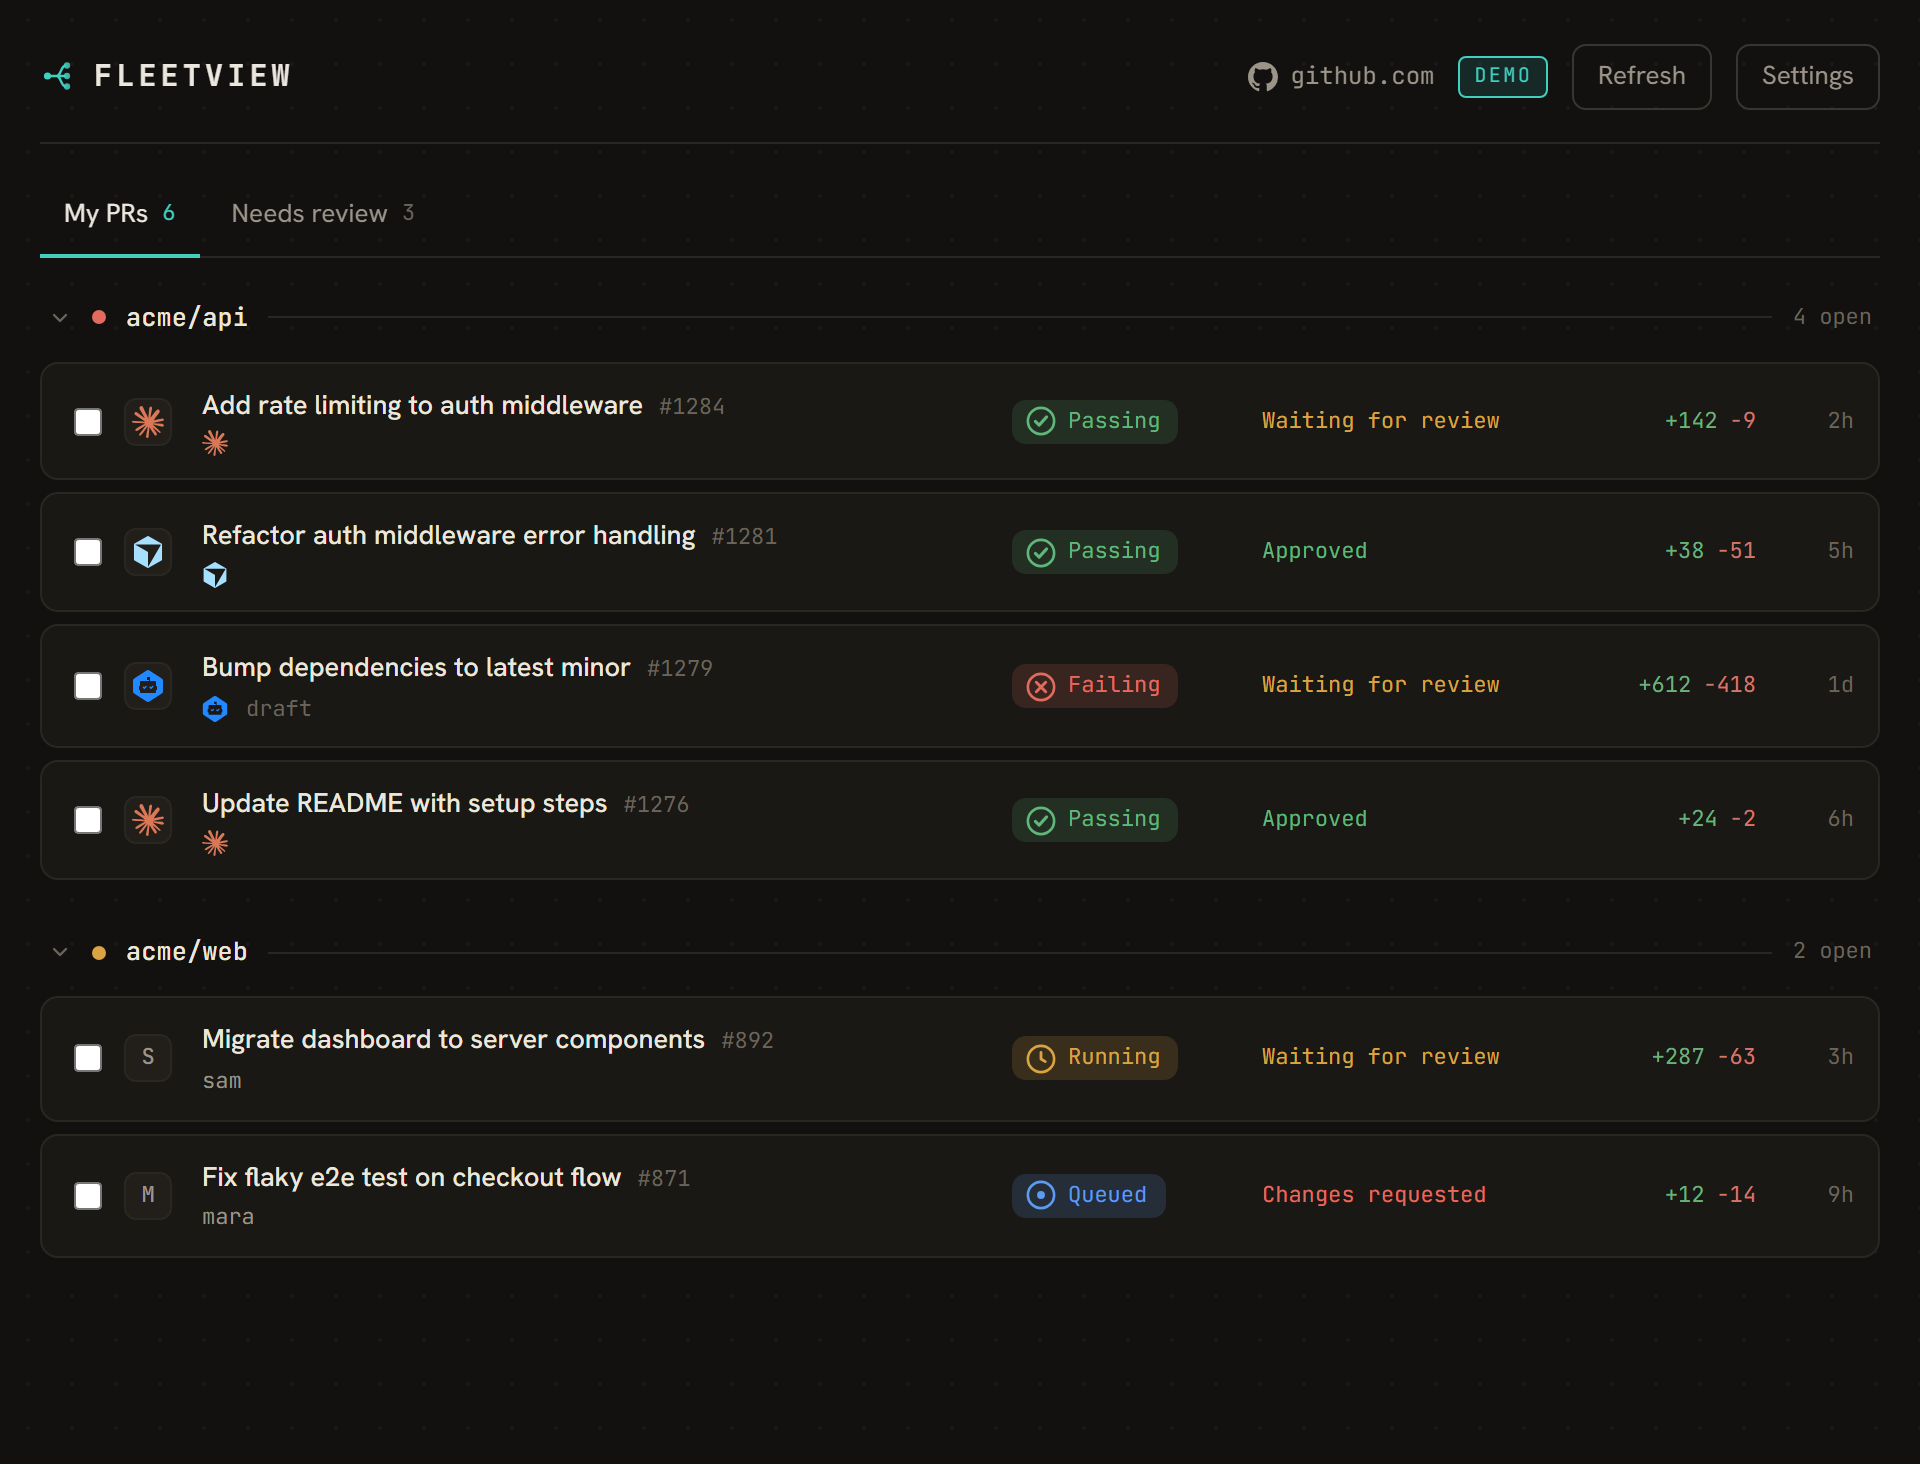
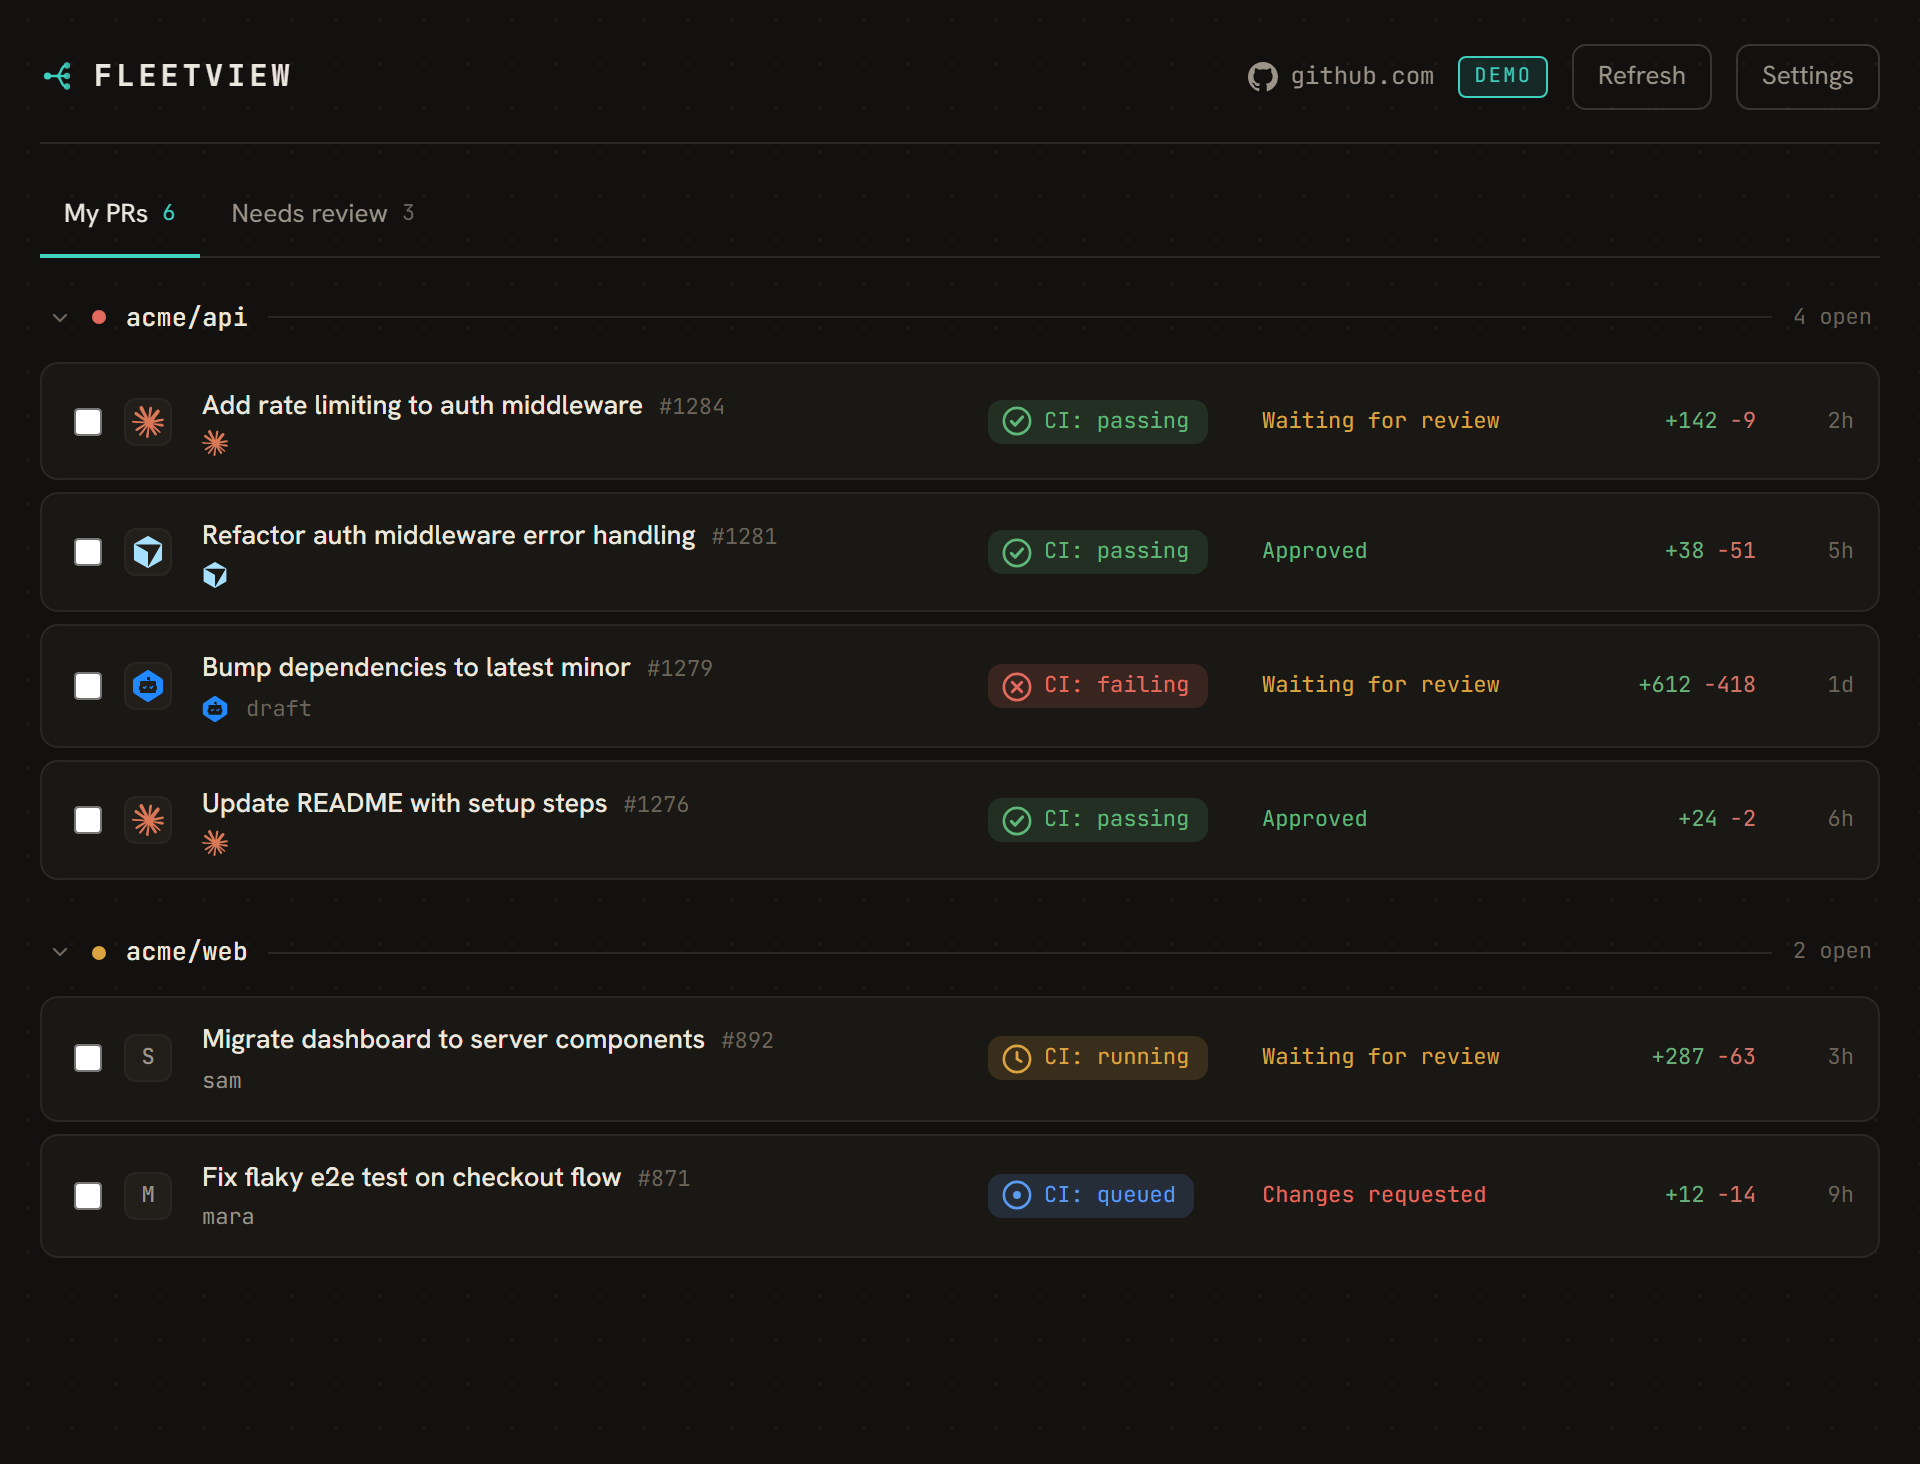
Prefix CI pill with 'CI:' for clarity (CI: running / CI: queued, etc)
A bare 'Running'/'Queued' didn't say what was running. Widen the CI column and
refresh the README screenshot.

diff --git a/src/App.tsx b/src/App.tsx
@@ -26,11 +26,11 @@ import { BRAND_PATHS, BrandMark } from "./lib/brand";
 type Filter = "all" | "review";
 
 const CI_LABEL: Record<CiStatus, string> = {
-  success: "Passing",
-  failure: "Failing",
-  pending: "Running",
-  queued: "Queued",
-  none: "No checks",
+  success: "CI: passing",
+  failure: "CI: failing",
+  pending: "CI: running",
+  queued: "CI: queued",
+  none: "CI: none",
 };
 
 const REVIEW_LABEL: Record<ReviewStatus, string> = {

diff --git a/src/index.css b/src/index.css
@@ -317,7 +317,7 @@ button:focus-visible {
 /* ---- row ---- */
 .row {
   display: grid;
-  grid-template-columns: 16px 26px minmax(0, 1fr) 112px 150px 84px 36px;
+  grid-template-columns: 16px 26px minmax(0, 1fr) 124px 150px 84px 36px;
   align-items: center;
   gap: 13px;
   padding: 11px 12px;